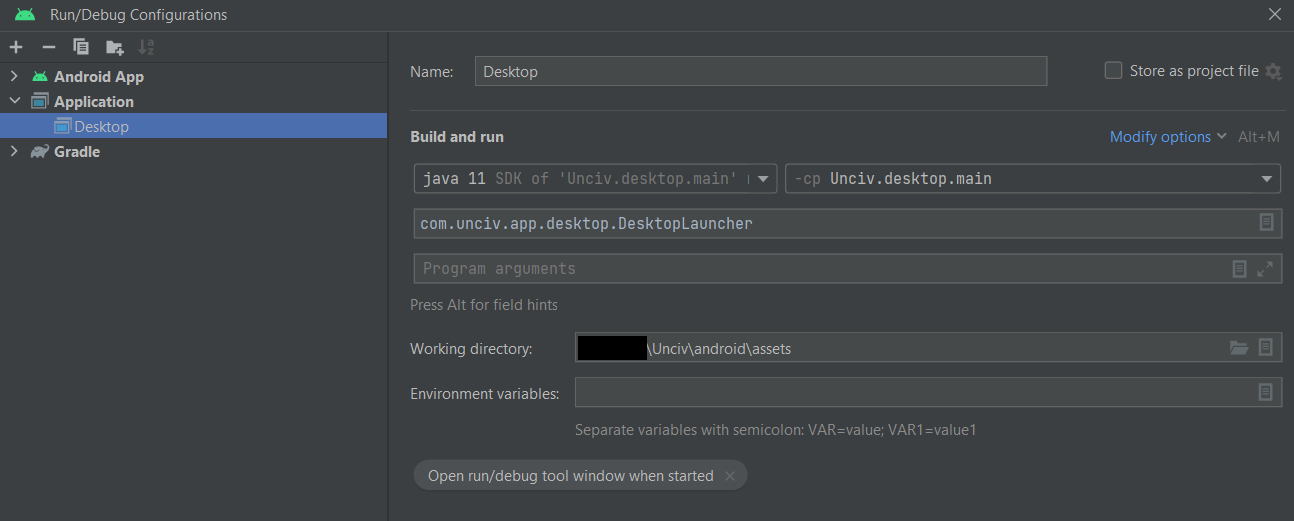
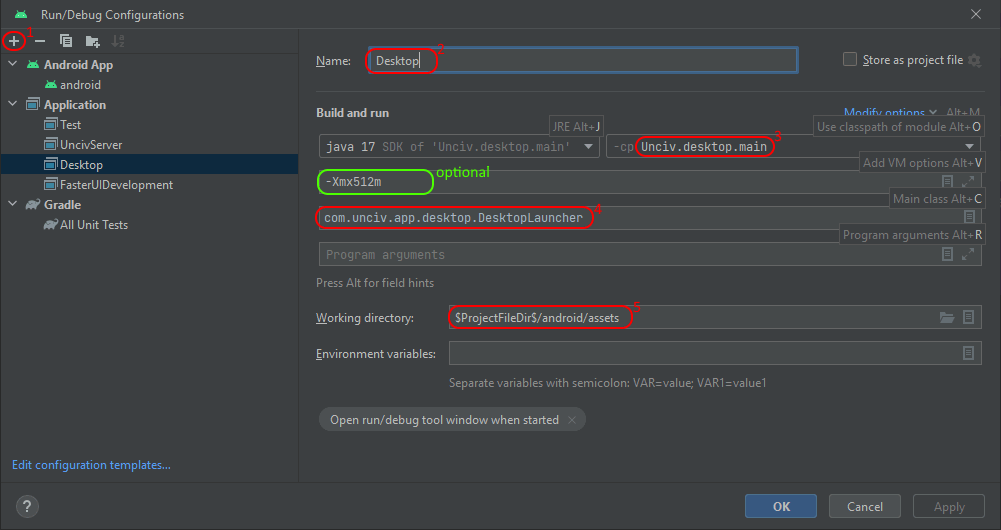
Update build documentation (incl FasterUIDevelopment run config)

diff --git a/docs/Developers/Building-Locally.md b/docs/Developers/Building-Locally.md
@@ -18,6 +18,7 @@ By the end of this guide, you will have Unciv running locally from code, so you 
         - Click "SDK Platforms"
         - Click "Android 13 (Tiramisu)"
         ![image](/Unciv/assets/Android_SDK_Platforms.png)
+          (Optionally, you can save some space by selecting 'Show Package Details' and choosing the Platform SDK only, without Sources or system Images)
         - Click "SDK Tools"
         - Select "Show Package Details" in the bottom right
         - Choose version 33.0.2 under "Android SDK Build-Tools"
@@ -28,7 +29,7 @@ By the end of this guide, you will have Unciv running locally from code, so you 
     -   Click "+" to add a new configuration
     -   Choose "Application"
     -   Give the configuration a name, we recommend "Desktop"
-    -   Set the module classpath (the box to the right of the Java selection) to `Unciv.desktop.main` (`Unciv.desktop` for Bumblebee or below), main class to `com.unciv.app.desktop.DesktopLauncher` and `<repo_folder>\android\assets\` as the Working directory, OK to close the window
+    -   Set the module classpath (the box to the right of the Java selection) to `Unciv.desktop.main` (`Unciv.desktop` for Bumblebee or below), main class to `com.unciv.app.desktop.DesktopLauncher` and `$ProjectFileDir$/android/assets` as the Working directory, OK to close the window
         - It _may_ be useful to set some VM options - activate the field in the run config editor with Alt-V or via the Modify Options menu, then add `-Xmx4096m -Xms256m -XX:MaxMetaspaceSize=256m` to allow a debugged game a little more memory. Or, use the `-DnoLog=` or `-DonlyLog=` options to control console logging. See the [Log.kt](https://github.com/yairm210/Unciv/blob/master/core/src/com/unciv/utils/Log.kt) comments for details.
         - If you get a `../../docs/uniques.md (No such file or directory)` error that means you forgot to set the working directory!
         ![image](/Unciv/assets/Desktop_Build.png)

diff --git a/docs/Developers/UI-development.md b/docs/Developers/UI-development.md
@@ -28,6 +28,10 @@ class DevElement(
 
 You can then simply run the `main` method of `FasterUIDevelopment` to show your UI element.
 
+There's two ways to do so:
+* Open this file in Android Studio under project:docs/Developers. That line above has a little green arrow in the left gutter that can be clicked.
+* Create a Run Configuration similar to [the desktop one described here](./Building-Locally.md#with-android-studio), but with classpath `Unciv.tests.test` and main class `com.unciv.dev.FasterUIDevelopment`.
+  ![image](/Unciv/assets/FasterUIDevelopment.png)
 
 ## The 'Gdx Scene2D debug' option
 
